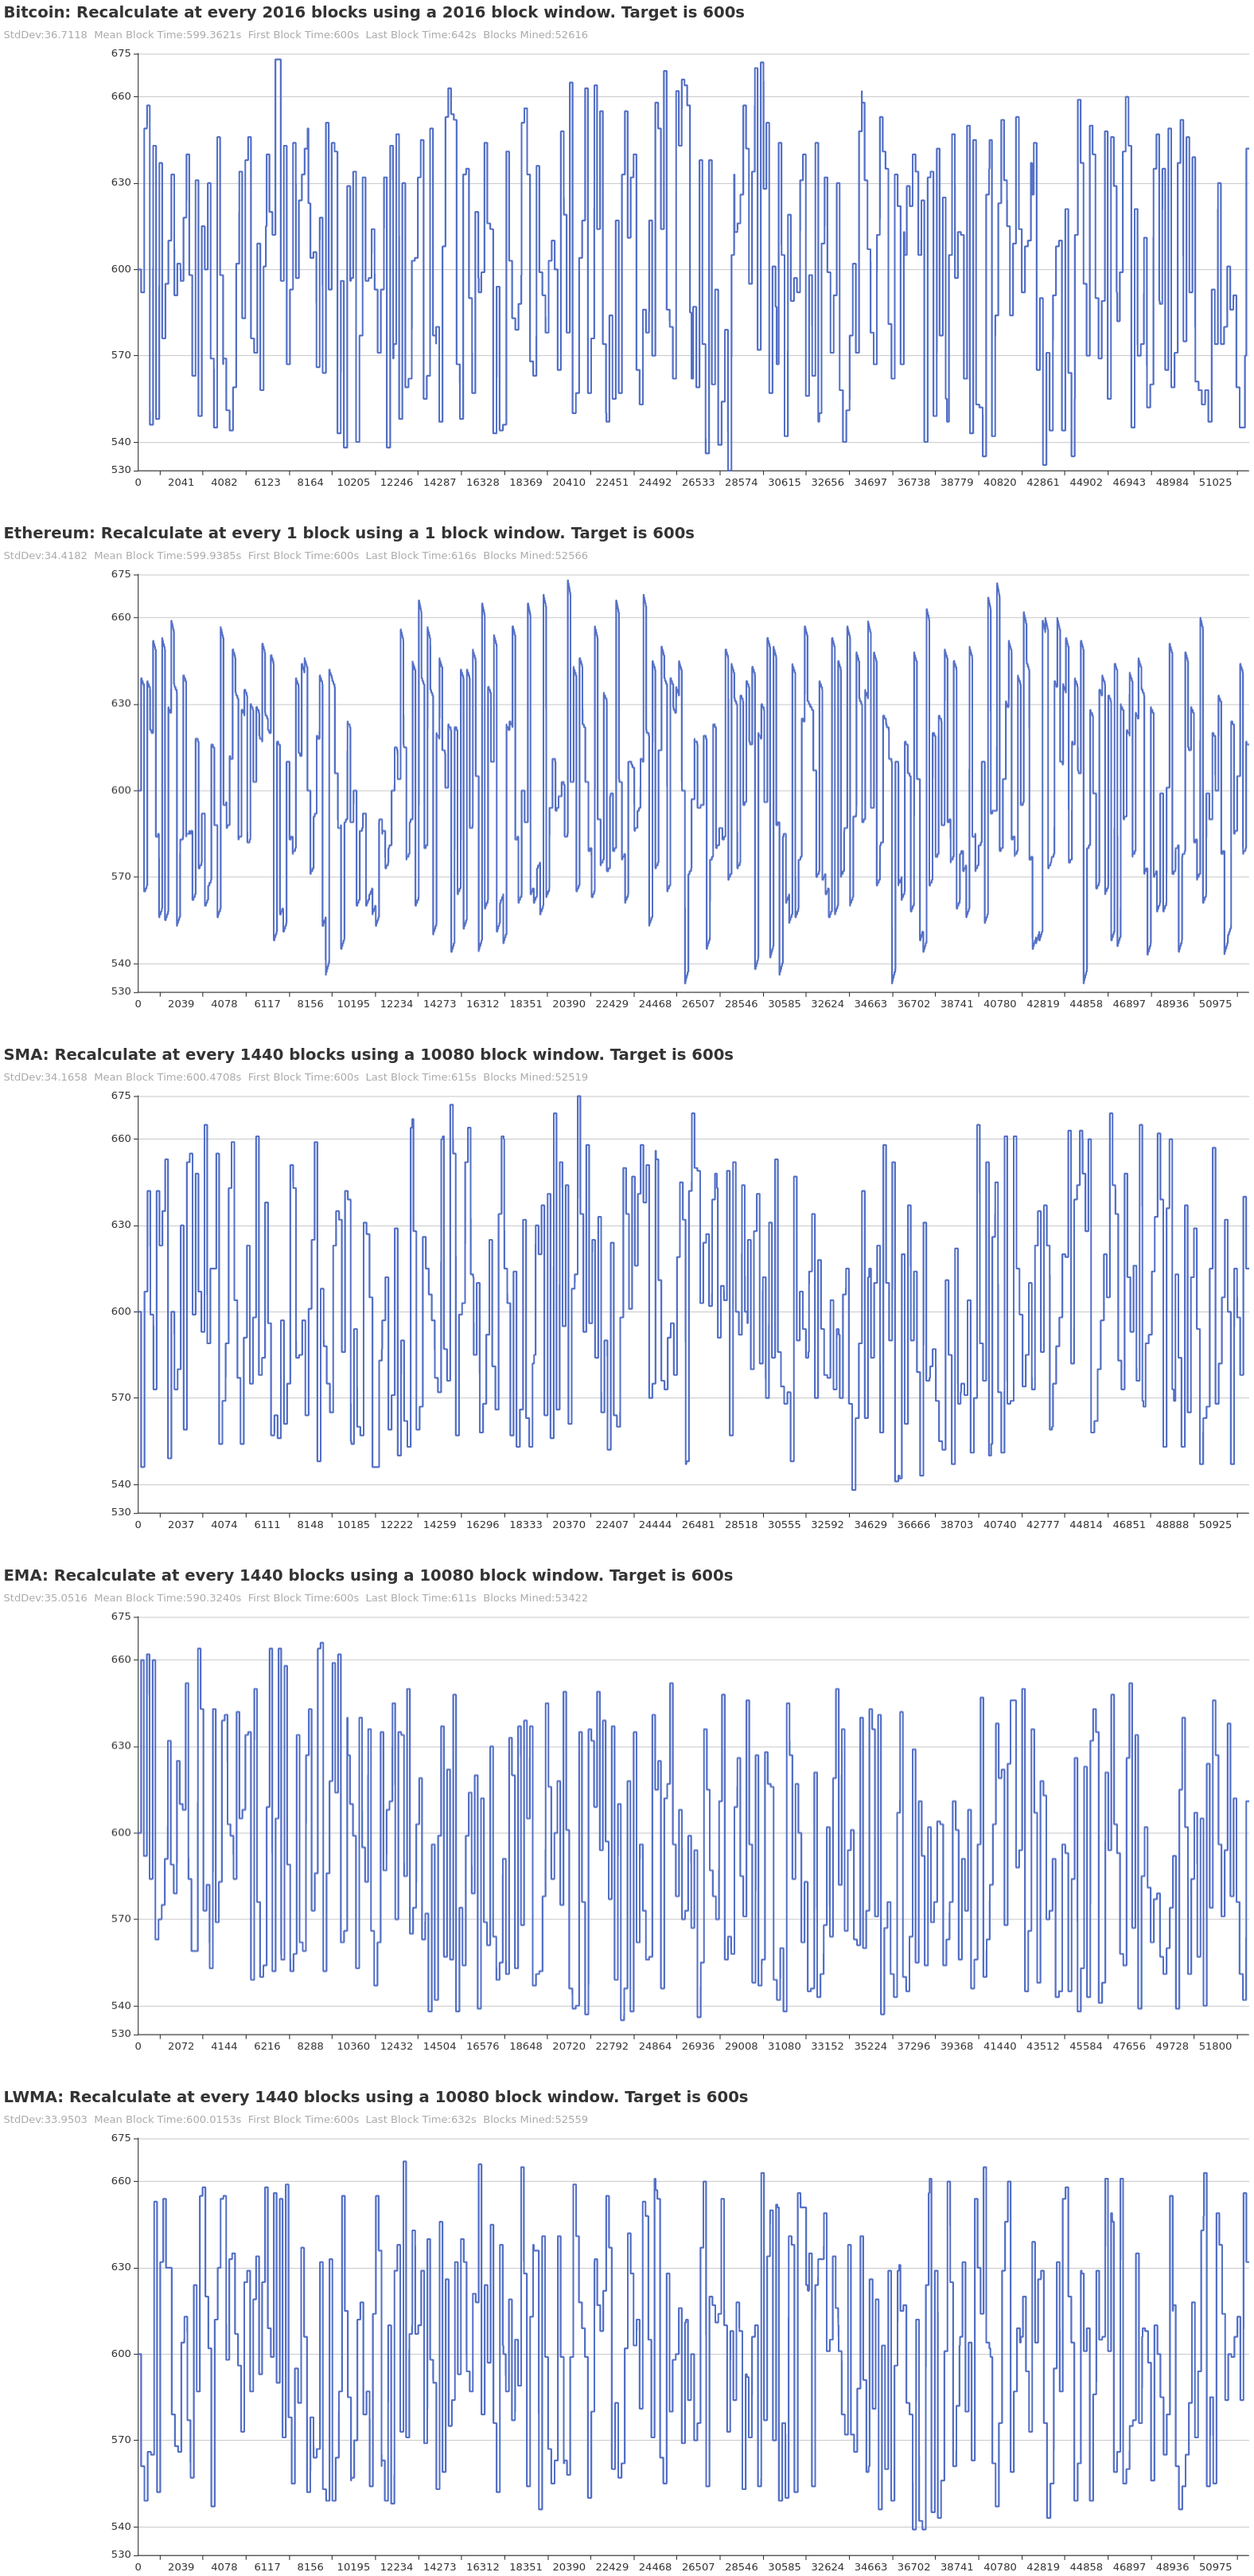
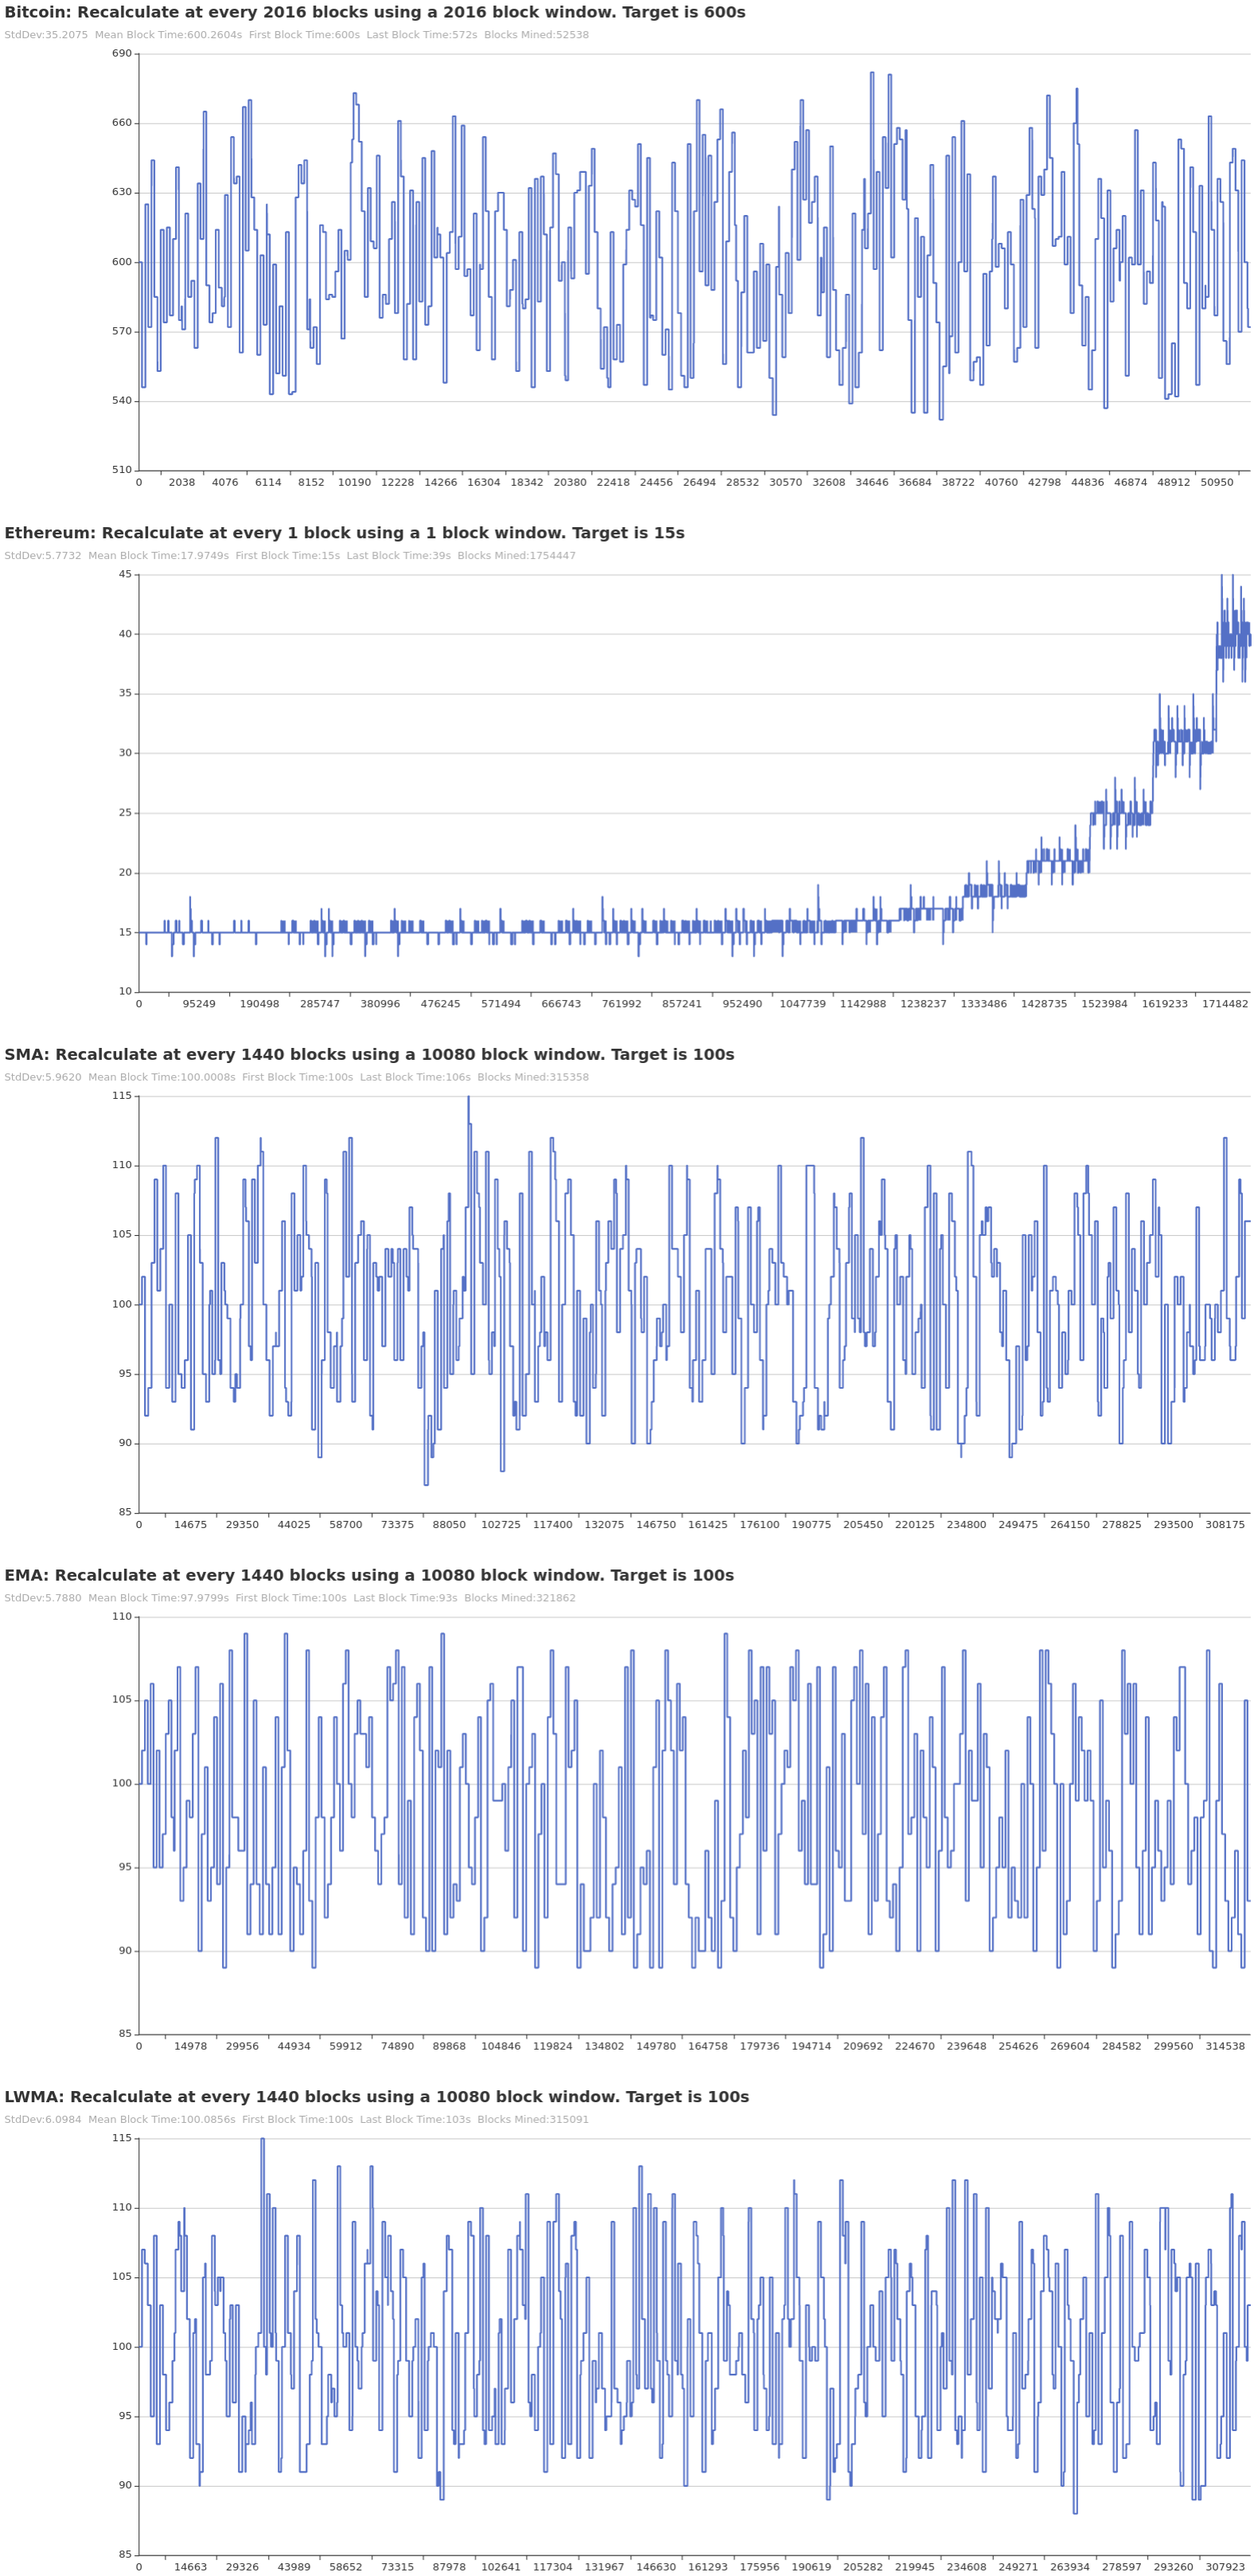
configurable target block time

diff --git a/algorithms/eth.go b/algorithms/eth.go
@@ -5,16 +5,16 @@ import (
 	"math"
 
 	"github.com/mesosoftware/blockchain-difficulty/blockchain"
-	"github.com/mesosoftware/blockchain-difficulty/internal"
 )
 
 // ETH implements the Ethereum difficulty adjustment algorithm, which is:
-// New Difficulty = Old Difficulty + (Old Difficulty // 2048 *             6 + (1000/(2048 *
-//     max(1 - (block timestamp - parent timestamp) // 10, -99) +          600/10 = 60. 1-60 = -59 (lower limit -99 does not apply))
+// New Difficulty = Old Difficulty + (Old Difficulty // 2048 *
+//     max(1 - (block timestamp - parent timestamp) // 10, -99) +
 //     int(2**((block number // 100000) - 2)))
 // to estimate a more suitable difficulty
 type ETH struct {
 	name                   string
+	target                 uint
 	intervalBlocks         int // Frequency of difficulty re-calculation
 	windowBlocks           int // Block data in sample
 	nextRecalculationBlock int
@@ -23,11 +23,11 @@ type ETH struct {
 // NewETH instantiates and returns a new ETH
 func NewETH() *ETH {
 	return &ETH{
-		name: fmt.Sprintf("Ethereum: Recalculate at every 1 block using a 1 block window. Target is %ds",
-			internal.Config.TargetBlockTimeSeconds),
-		intervalBlocks:         1, // fixed
-		windowBlocks:           1, // fixed
-		nextRecalculationBlock: 1, // fixed
+		name:                   fmt.Sprintf("Ethereum: Recalculate at every 1 block using a 1 block window. Target is 15s"),
+		target:                 15, // fixed
+		intervalBlocks:         1,  // fixed
+		windowBlocks:           1,  // fixed
+		nextRecalculationBlock: 1,  // fixed
 	}
 }
 
@@ -59,13 +59,12 @@ func (e *ETH) NextDifficulty(blockchain blockchain.Blockchain, thisBlockTime uin
 
 	oldDifficulty := float64(blockchain.GetLastBlock().NextDifficulty)
 	thisBlockNumber := float64(lenBlocks + 1)
-	target := float64(internal.Config.TargetBlockTimeSeconds) // Target is 15 seconds in ETH, but made configurable here for comparison's sake
 
 	return uint64(oldDifficulty +
 		float64((oldDifficulty/2048)*
 			math.Max(-99, 1-
-				(float64(thisBlockTime)/target))+
+				(float64(thisBlockTime)/float64(e.target)))+
 			math.Pow(2,
-				float64((thisBlockNumber/100000)-
+				float64((int(thisBlockNumber)/100000)-
 					2))))
 }

diff --git a/algorithms/ema.go b/algorithms/ema.go
@@ -4,7 +4,6 @@ import (
 	"fmt"
 
 	"github.com/mesosoftware/blockchain-difficulty/blockchain"
-	"github.com/mesosoftware/blockchain-difficulty/internal"
 )
 
 // EMA implements an Exponential Moving Average equation, using an exponentially weighted average
@@ -12,6 +11,7 @@ import (
 // difficulty
 type EMA struct {
 	name                   string
+	target                 uint
 	intervalBlocks         int // Frequency of difficulty re-calculation
 	windowBlocks           int // Block data in sample
 	nextRecalculationBlock int
@@ -20,12 +20,13 @@ type EMA struct {
 }
 
 // NewEMA instantiates and returns a new EMA
-func NewEMA(intervalBlocks, windowBlocks int) *EMA {
+func NewEMA(target uint, intervalBlocks, windowBlocks int) *EMA {
 	return &EMA{
 		name: fmt.Sprintf("EMA: Recalculate at every %v blocks using a %v block window. Target is %ds",
 			intervalBlocks,
 			windowBlocks,
-			internal.Config.TargetBlockTimeSeconds),
+			target),
+		target:                 target,
 		intervalBlocks:         intervalBlocks,
 		windowBlocks:           windowBlocks,
 		nextRecalculationBlock: intervalBlocks,
@@ -63,7 +64,7 @@ func (e *EMA) NextDifficulty(blockchain blockchain.Blockchain, thisBlockTime uin
 	e.lastEmaD = emaD
 	e.lastEmaBT = emaBT
 
-	return uint64(emaD * (float64(internal.Config.TargetBlockTimeSeconds) / emaBT))
+	return uint64(emaD * (float64(e.target) / emaBT))
 }
 
 // ema calculates the Exponential Moving Averages for Difficulty and BlockTime
@@ -72,7 +73,7 @@ func (e *EMA) ema(blockchain blockchain.Blockchain, thisBlockTime uint) (emaD, e
 
 	// For the first EMA calculation, use the SMA
 	if e.lastEmaD == 0 {
-		s := NewSMA(e.windowBlocks, e.intervalBlocks)
+		s := NewSMA(e.target, e.windowBlocks, e.intervalBlocks)
 		return s.sma(blockchain, thisBlockTime)
 	}
 

diff --git a/algorithms/btc.go b/algorithms/btc.go
@@ -4,7 +4,6 @@ import (
 	"fmt"
 
 	"github.com/mesosoftware/blockchain-difficulty/blockchain"
-	"github.com/mesosoftware/blockchain-difficulty/internal"
 )
 
 // BTC implements the Bitcoin difficulty adjustment algorithm, which is:
@@ -12,6 +11,7 @@ import (
 // to estimate a more suitable difficulty
 type BTC struct {
 	name                   string
+	target                 uint
 	intervalBlocks         int // Frequency of difficulty re-calculation
 	windowBlocks           int // Block data in sample
 	nextRecalculationBlock int
@@ -20,8 +20,8 @@ type BTC struct {
 // NewBTC instantiates and returns a new BTC
 func NewBTC() *BTC {
 	return &BTC{
-		name: fmt.Sprintf("Bitcoin: Recalculate at every 2016 blocks using a 2016 block window. Target is %ds",
-			internal.Config.TargetBlockTimeSeconds),
+		name:                   fmt.Sprintf("Bitcoin: Recalculate at every 2016 blocks using a 2016 block window. Target is 600s"),
+		target:                 600,  // fixed
 		intervalBlocks:         2016, // fixed
 		windowBlocks:           2016, // fixed
 		nextRecalculationBlock: 2016, // fixed
@@ -56,7 +56,7 @@ func (b *BTC) NextDifficulty(blockchain blockchain.Blockchain, thisBlockTime uin
 
 	time := b.sumBlockTimes(blockchain, thisBlockTime)
 
-	return uint64(float64(blockchain.GetLastBlock().NextDifficulty) * (float64(b.windowBlocks*600) / float64(time)))
+	return uint64(float64(blockchain.GetLastBlock().NextDifficulty) * (float64(b.windowBlocks) * float64(b.target)) / float64(time))
 }
 
 func (b *BTC) sumBlockTimes(blockchain blockchain.Blockchain, thisBlockTime uint) (sum uint) {

diff --git a/algorithms/lwma.go b/algorithms/lwma.go
@@ -4,7 +4,6 @@ import (
 	"fmt"
 
 	"github.com/mesosoftware/blockchain-difficulty/blockchain"
-	"github.com/mesosoftware/blockchain-difficulty/internal"
 )
 
 // LWMA implements a Linear Weighted Moving Average equation, using the
@@ -12,18 +11,20 @@ import (
 // estimate a more suitable difficulty
 type LWMA struct {
 	name                   string
+	target                 uint
 	intervalBlocks         int // Frequency of difficulty re-calculation
 	windowBlocks           int // Block data in sample
 	nextRecalculationBlock int
 }
 
 // NewLWMA instantiates and returns a new LWMA
-func NewLWMA(intervalBlocks, windowBlocks int) *LWMA {
+func NewLWMA(target uint, intervalBlocks, windowBlocks int) *LWMA {
 	return &LWMA{
 		name: fmt.Sprintf("LWMA: Recalculate at every %v blocks using a %v block window. Target is %ds",
 			intervalBlocks,
 			windowBlocks,
-			internal.Config.TargetBlockTimeSeconds),
+			target),
+		target:                 target,
 		intervalBlocks:         intervalBlocks,
 		windowBlocks:           windowBlocks,
 		nextRecalculationBlock: intervalBlocks,
@@ -58,7 +59,7 @@ func (l *LWMA) NextDifficulty(blockchain blockchain.Blockchain, thisBlockTime ui
 
 	lwmaD, lwmaBT := l.lwma(blockchain, thisBlockTime)
 
-	return uint64(lwmaD * (float64(internal.Config.TargetBlockTimeSeconds) / lwmaBT))
+	return uint64(lwmaD * (float64(l.target) / lwmaBT))
 }
 
 // lwma calculates the Linear Weighted Moving Averages for Difficulty and BlockTime

diff --git a/algorithms/sma.go b/algorithms/sma.go
@@ -4,7 +4,6 @@ import (
 	"fmt"
 
 	"github.com/mesosoftware/blockchain-difficulty/blockchain"
-	"github.com/mesosoftware/blockchain-difficulty/internal"
 )
 
 // SMA implements a Simple Moving Average equation, using the average
@@ -12,18 +11,20 @@ import (
 // difficulty
 type SMA struct {
 	name                   string
+	target                 uint
 	intervalBlocks         int // Frequency of difficulty re-calculation
 	windowBlocks           int // Block data in sample
 	nextRecalculationBlock int
 }
 
 // NewSMA instantiates and returns a new SMA
-func NewSMA(intervalBlocks, windowBlocks int) *SMA {
+func NewSMA(target uint, intervalBlocks, windowBlocks int) *SMA {
 	return &SMA{
 		name: fmt.Sprintf("SMA: Recalculate at every %v blocks using a %v block window. Target is %ds",
 			intervalBlocks,
 			windowBlocks,
-			internal.Config.TargetBlockTimeSeconds),
+			target),
+		target:                 target,
 		intervalBlocks:         intervalBlocks,
 		windowBlocks:           windowBlocks,
 		nextRecalculationBlock: intervalBlocks,
@@ -58,7 +59,7 @@ func (s *SMA) NextDifficulty(blockchain blockchain.Blockchain, thisBlockTime uin
 
 	smaD, smaBT := s.sma(blockchain, thisBlockTime)
 
-	return uint64(smaD * (float64(internal.Config.TargetBlockTimeSeconds) / smaBT))
+	return uint64(smaD * (float64(s.target) / smaBT))
 }
 
 // sma calculates the Simple Moving Averages for Difficulty and BlockTime

diff --git a/algorithms/eth_test.go b/algorithms/eth_test.go
@@ -25,31 +25,31 @@ func TestETHNextDifficulty(t *testing.T) {
 			name: "Perfect difficulty",
 			blockchain: blockchain.Blockchain{
 				Chain: []*blockchain.Block{
-					{ThisDifficulty: 6000000000, NextDifficulty: 6000000000, BlockTimeSeconds: 600},
+					{ThisDifficulty: 15000000, NextDifficulty: 15000000, BlockTimeSeconds: 15},
 				},
 			},
-			thisBlockTime: 600,
-			expected:      6000000000,
+			thisBlockTime: 15,
+			expected:      15000000,
 		},
 		{
-			name: "Low difficulty",
+			name: "Low difficulty in acceptable range",
 			blockchain: blockchain.Blockchain{
 				Chain: []*blockchain.Block{
-					{ThisDifficulty: 5500000000, NextDifficulty: 5500000000, BlockTimeSeconds: 550},
+					{ThisDifficulty: 1000000, NextDifficulty: 1000000, BlockTimeSeconds: 10},
 				},
 			},
-			thisBlockTime: 550,
-			expected:      5500223795,
+			thisBlockTime: 10,
+			expected:      1000163, // TODO should not change
 		},
 		{
-			name: "High difficulty",
+			name: "Low difficulty out of acceptable range",
 			blockchain: blockchain.Blockchain{
 				Chain: []*blockchain.Block{
-					{ThisDifficulty: 6500000000, NextDifficulty: 6500000000, BlockTimeSeconds: 650},
+					{ThisDifficulty: 9000000, NextDifficulty: 9000000, BlockTimeSeconds: 9},
 				},
 			},
-			thisBlockTime: 650,
-			expected:      6500000000,
+			thisBlockTime: 9,
+			expected:      9000000, // TODO should change
 		},
 	}
 

diff --git a/internal/config.go b/internal/config.go
@@ -14,7 +14,6 @@ var Config Configuration
 
 // Configuration represents a configuration object
 type Configuration struct {
-	TargetBlockTimeSeconds         uint64
 	SimulationDays                 uint32
 	InitialNetworkHashPower        uint64 // Hashes per second
 	LimitNetworkHashPowerPctChange int    // How much the network power can vary from the initial power
@@ -22,7 +21,6 @@ type Configuration struct {
 
 // InitConfig instantiates Cfg with defaults or environment variables
 func InitConfig() {
-	Config.TargetBlockTimeSeconds = getEnvAsUint64("TARGET_BLOCK_TIME_SECONDS", 600)
 	Config.SimulationDays = getEnvAsUint32("SIMULATION_DAYS", 365)
 	Config.InitialNetworkHashPower = getEnvAsUint64("INITIAL_NETWORK_HASH_POWER", 1000000)
 	Config.LimitNetworkHashPowerPctChange = getEnvAsInt("LIMIT_NETWORK_HASH_POWER_PCT_CHANGE", 10)

diff --git a/cmd/main.go b/cmd/main.go
@@ -21,10 +21,10 @@ func main() {
 
 	networks := []network.Network{
 		network.NewNetwork(600000000, algorithms.NewBTC()),
-		network.NewNetwork(600000000, algorithms.NewETH()),
-		network.NewNetwork(600000000, algorithms.NewSMA(1440, 10080)),
-		network.NewNetwork(600000000, algorithms.NewEMA(1440, 10080)),
-		network.NewNetwork(600000000, algorithms.NewLWMA(1440, 10080)),
+		network.NewNetwork(15000000, algorithms.NewETH()),
+		network.NewNetwork(100000000, algorithms.NewSMA(100, 1440, 10080)),
+		network.NewNetwork(100000000, algorithms.NewEMA(100, 1440, 10080)),
+		network.NewNetwork(100000000, algorithms.NewLWMA(100, 1440, 10080)),
 	}
 
 	ctx := context.Context(context.Background())

diff --git a/algorithms/lwma_test.go b/algorithms/lwma_test.go
@@ -47,7 +47,7 @@ func TestLWMANextDifficulty(t *testing.T) {
 		},
 	}
 
-	s := NewLWMA(5, 5)
+	s := NewLWMA(600, 5, 5)
 
 	for _, tc := range testCases {
 		t.Run(tc.name, func(t *testing.T) {
@@ -83,7 +83,7 @@ func TestLwma(t *testing.T) {
 		},
 	}
 
-	s := NewLWMA(5, 5)
+	s := NewLWMA(600, 5, 5)
 
 	for _, tc := range testCases {
 		t.Run(tc.name, func(t *testing.T) {

diff --git a/algorithms/ema_test.go b/algorithms/ema_test.go
@@ -47,7 +47,7 @@ func TestEMANextDifficulty(t *testing.T) {
 		},
 	}
 
-	e := NewEMA(5, 5)
+	e := NewEMA(600, 5, 5)
 
 	for _, tc := range testCases {
 		t.Run(tc.name, func(t *testing.T) {
@@ -103,7 +103,7 @@ func TestEma(t *testing.T) {
 		},
 	}
 
-	e := NewEMA(5, 5)
+	e := NewEMA(600, 5, 5)
 
 	for _, tc := range testCases {
 		t.Run(tc.name, func(t *testing.T) {

diff --git a/algorithms/sma_test.go b/algorithms/sma_test.go
@@ -47,7 +47,7 @@ func TestSMANextDifficulty(t *testing.T) {
 		},
 	}
 
-	s := NewSMA(5, 5)
+	s := NewSMA(600, 5, 5)
 
 	for _, tc := range testCases {
 		t.Run(tc.name, func(t *testing.T) {
@@ -83,7 +83,7 @@ func TestSma(t *testing.T) {
 		},
 	}
 
-	s := NewSMA(5, 5)
+	s := NewSMA(600, 5, 5)
 
 	for _, tc := range testCases {
 		t.Run(tc.name, func(t *testing.T) {

diff --git a/report/report.go b/report/report.go
@@ -130,8 +130,8 @@ func lineChartSetOpts(lineChart *charts.Line, name, results string, minY, maxY u
 		}),
 		charts.WithYAxisOpts(opts.YAxis{
 			Scale: true,
-			Min:   minY,
-			Max:   maxY,
+			//			Min:   minY,
+			//			Max:   maxY,
 		}),
 	)
 }
